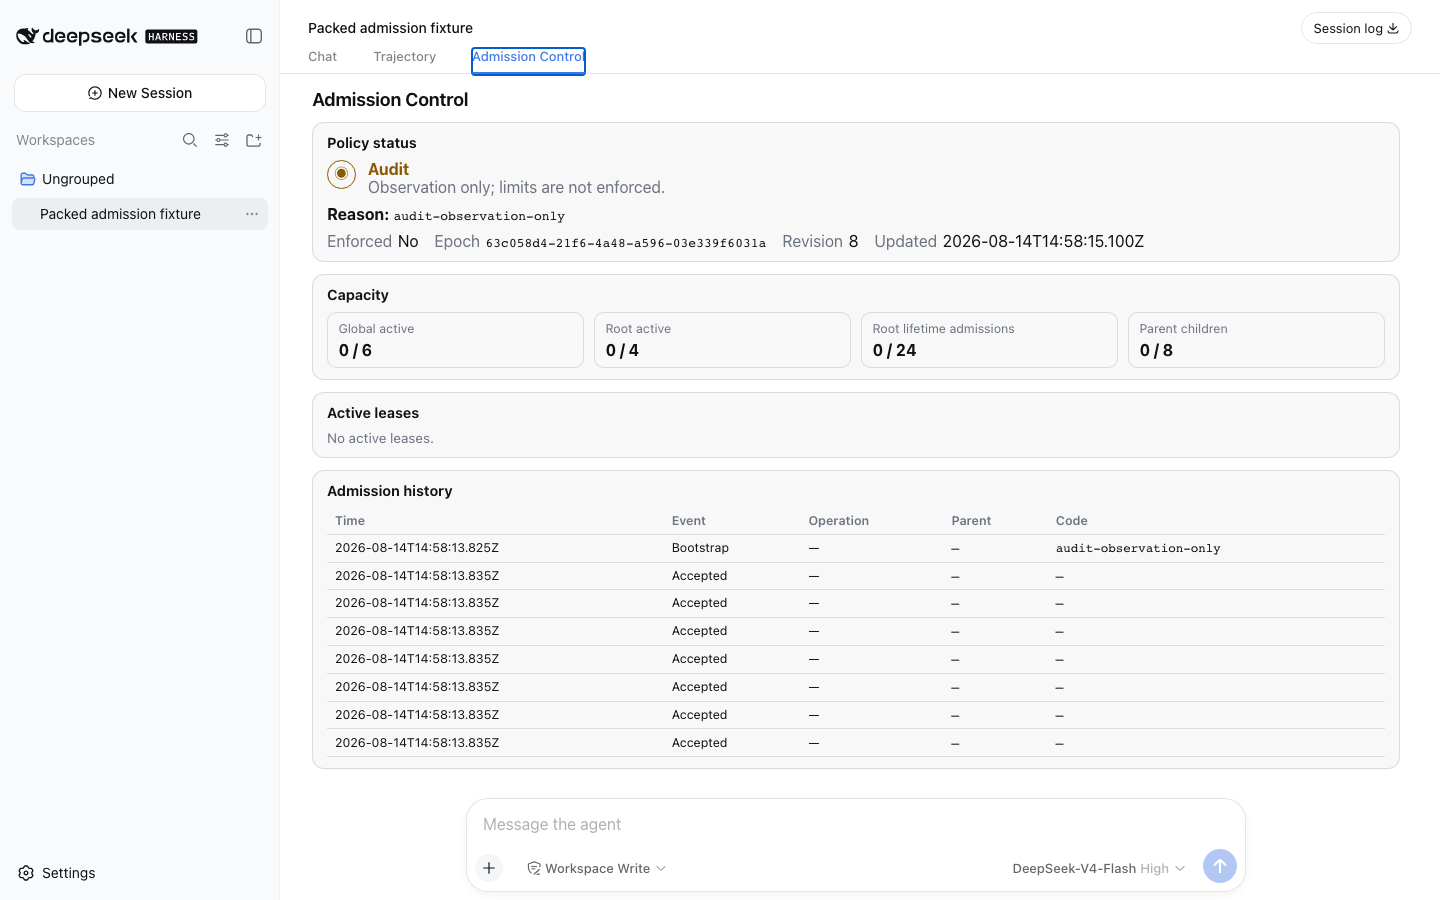
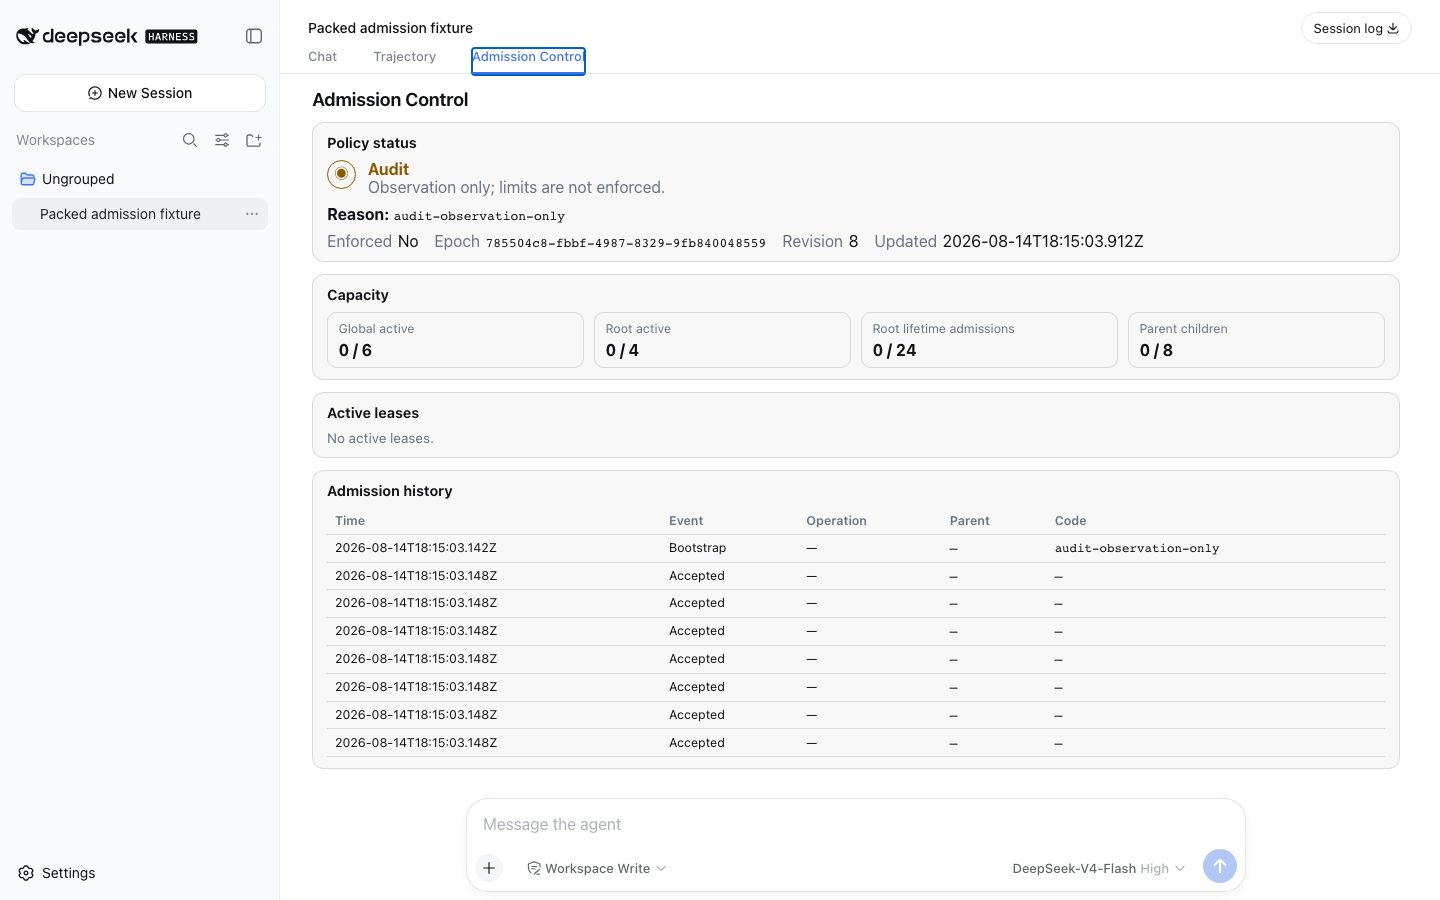
fix: close cold-resume admission leak

diff --git a/tests/upstream/admission-policy.spec.ts b/tests/upstream/admission-policy.spec.ts
@@ -890,4 +890,36 @@ describe('continuable admission ownership', () => {
       releases: ['startup-failed'],
     })
   })
+
+  it.skipIf(SEAM_SHAPE === 'reference')(
+    'releases cold-resume admission when cancellation wins immediately after acquisition',
+    async () => {
+      const { ctx, parent } = await continuationRuntime(
+        new MockAdapter([textResponse('initial')]),
+      )
+      registerContinuableProvider(ctx, 'continuable', async () => ({}))
+      const started = await ctx.subagents.startContinuable(
+        continuableSpec(parent),
+      )
+      await waitNoActivation(ctx, started.childId)
+
+      const controller = new AbortController()
+      const events: string[] = []
+      ctx.subagents.registerAdmissionPolicy(
+        new CancelAfterAcquirePolicy(controller, events),
+      )
+
+      await expect(ctx.subagents.followup(
+        parent,
+        started.childId,
+        [{ type: 'text', text: 'cancel cold resume' }],
+        {
+          source: { kind: 'user' },
+          signal: controller.signal,
+        },
+      )).rejects.toMatchObject({ name: 'AbortError' })
+      expect(events).toEqual(['acquire', 'release:startup-failed'])
+      expect(ctx.agents.get(started.childId)).toBeUndefined()
+    },
+  )
 })

diff --git a/tests/docs.spec.ts b/tests/docs.spec.ts
@@ -271,7 +271,7 @@ describe('release-candidate documentation', () => {
     expect(note).not.toContain('perRootAdmittedTotal')
   })
 
-  it('packages the Discussion #131 draft without claiming publication or adoption', () => {
+  it('packages the published Discussion #131 reply source without claiming adoption', () => {
     const draft = text('docs/discussion-131-draft.md')
     expect(draft).toContain('independent')
     expect(draft).toContain('experimental')
@@ -308,7 +308,7 @@ describe('release-candidate documentation', () => {
     for (const file of ['README.md', 'README.zh-CN.md', 'docs/upstream-seam.md', 'docs/compatibility.md']) {
       const content = text(file)
[3 lines of base64/hex data omitted]
       expect(content).toContain('dsh-turn-budget')
     }
   })

diff --git a/docs/upstream-seam.md b/docs/upstream-seam.md
@@ -25,7 +25,7 @@ few lines of plumbing or that users should maintain this fork shape forever.
 | Source commit | `47f943859bef60e4160492346772ded9b24f765a` | `47f943859bef60e4160492346772ded9b24f765a` |
 | Source package | `@deepseek-ai/dsh-subagent@0.1.0-rc.5` | `@deepseek-ai/dsh-subagent@0.1.0-rc.5` |
 | Patch file | `patches/dsh-subagent-admission-seam-slim.patch` | `patches/dsh-subagent-admission-seam.patch` |
[2 lines of base64/hex data omitted]
 | Protocol | `1` | `1` |
 | Status | Canonical baseline (promoted) | Recoverable reference artifact |
 | Verification | `corepack pnpm tsx scripts/verify-seam-patch.mts --patch slim` | `corepack pnpm tsx scripts/verify-seam-patch.mts --patch reference` |
@@ -108,11 +108,11 @@ Measured comparison:
 | Metric | Canonical baseline (slim) | Recoverable reference | Slim limit |
 | --- | ---: | ---: | ---: |
 | Official files | 3 | 3 | <= 3 |
-| Insertions | 202 | 380 | — |
+| Insertions | 207 | 380 | — |
 | Deletions | 23 | 38 | — |
-| Changed lines | 225 | 418 | <= 313 |
-| `continuation.ts` changed lines | 101 | 187 | <= 140 |
-| Serialized patch lines | 448 | 607 | <= 455 |
+| Changed lines | 230 | 418 | <= 313 |
+| `continuation.ts` changed lines | 106 | 187 | <= 140 |
+| Serialized patch lines | 455 | 607 | <= 455 |
 
 The protocol concepts are small; lifecycle-correct ownership across fresh start,
 cold resume, partial failure, descendant teardown, cancellation, and quiescent
@@ -174,14 +174,16 @@ corepack pnpm tsx scripts/verify-seam-patch.mts --patch slim
 corepack pnpm tsx scripts/verify-seam-patch.mts --patch reference
 ```
 
-On 2026-08-14, the patched run passed 11 test files and 266 tests on macOS arm64
+On 2026-08-14, the patched run passed 11 test files and 270 tests on macOS arm64
 with Node `v25.9.0` and pnpm `11.19.0`. The local environment had no `corepack`
 binary, so the observed run invoked the same script through `pnpm tsx`; the
 recorded command above is the cross-environment canonical form. Platform-package,
 workspace-cycle, and ignored-build-script bin warnings were present during the
 official lockfile install; they did not fail compilation or tests.
 
-The fixture covers registration and tombstoning, unsupported protocol,
+The 270-test result comprises 249 stock official subagent tests and 21 tests in
+the injected reusable admission fixture. The fixture covers registration and
+tombstoning, unsupported protocol,
 provider-before-policy ordering, one-shot publication/binding, result-before-
 dispose, provider and binding rollback, failed-cleanup lease retention,
 spawn/fork and foreground/background equivalence, fresh continuable creation,

diff --git a/docs/upstream-agent-note.md b/docs/upstream-agent-note.md
@@ -107,14 +107,14 @@ Admission and cancellation are strictly coordinated to prevent capacity leaks:
 The seam design is verified against exact official source commit `47f943859bef60e4160492346772ded9b24f765a` (`@deepseek-ai/dsh-subagent@0.1.0-rc.5`).
 
 The test suite includes:
-- 100% pass rate on all 269 official subagent tests.
-- A reusable upstream admission fixture testing 18 distinct behaviors: single registration, tombstoning, fail-closed unregistration, pre-provider acquisition, publication binding, post-quiescence release, startup rollback, cancellation propagation, resident follow-up reuse, cold resume admission, and descendant-first teardown ordering.
+- 249 stock official subagent tests plus 21 injected reusable admission-fixture tests, all passing (270 tests across 11 files).
+- The reusable fixture covers single registration, tombstoning, fail-closed unregistration, pre-provider acquisition, publication binding, post-quiescence release, startup rollback, one-shot and cold-resume cancellation propagation, resident follow-up reuse, cold resume admission, and descendant-first teardown ordering.
 
 ## Consequences
 
 - **Separation of concerns**: DeepSeek Harness core remains lightweight, clean, and unopinionated while providing a robust lifecycle hook for advanced resource management plugins.
 - **Cross-caller consistency**: All subagent creation paths—whether from tools, background plugins, or direct SDK calls—share one coherent admission authority.
-- **Non-trivial implementation**: Although the public protocol is minimal, integrating lifecycle-correct ownership requires precision across one-shot execution, continuable activation, and asynchronous cleanup. In the qualified candidate, the patch touches 3 official files (`types.ts`, `index.ts`, `continuation.ts`) with 225 total changed lines (101 in `continuation.ts`).
+- **Non-trivial implementation**: Although the public protocol is minimal, integrating lifecycle-correct ownership requires precision across one-shot execution, continuable activation, and asynchronous cleanup. In the qualified candidate, the patch touches 3 official files (`types.ts`, `index.ts`, `continuation.ts`) with 230 total changed lines (106 in `continuation.ts`).
 - **Productization gate**: Achieving a documented official extension point enables **zero-patch Strict** enforcement for community plugins without requiring local source patching.
 
 ## Deferred work

diff --git a/docs/superpowers/specs/2026-08-14-dsh-subagent-upstream-seam-slim-design.md b/docs/superpowers/specs/2026-08-14-dsh-subagent-upstream-seam-slim-design.md
@@ -1,8 +1,33 @@
 # DSH Subagent Upstream Admission Seam Slim Design
 
-Status: approved design; implementation not started
+Status: implemented and requalified; the public reply was authorized separately
 
 Date: 2026-08-14
+
+## Post-qualification slimming decision
+
+The implemented candidate was re-reviewed after the public design question was
+posted. Three directions were compared:
+
+1. **Preserve the lifecycle-correct candidate and slim the official-facing
+   packet** — selected. The patch remains a non-trivial integration vehicle;
+   the maintainers are asked to judge only registration plus acquire, bind, and
+   release ownership edges.
+2. **Delete rollback, cancellation, tombstone, or failure aggregation to reduce
+   source lines** — rejected. These are enforcement semantics, not product
+   policy, and removing them would create fail-open or false-release paths.
+3. **Replace the concrete subagent seam with a generic runtime resource-permit
+   service** — deferred. No second independent consumer currently justifies a
+   broader official abstraction.
+
+The review found one real semantic gap: cold-resume cancellation could win
+after `acquire()` but before ownership transferred to `materialize()`, leaving
+the permit unreleased. A RED fixture reproduced the missing
+`release('startup-failed')`; the minimal ownership-transfer fix then passed 270
+tests across 11 files on the exact official target. The requalified candidate
+is 230 changed lines across three official files, including 106 in
+`continuation.ts`, and 455 serialized patch lines. Further line shaving is not
+an acceptance goal unless it preserves every lifecycle gate below.
 
 ## 1. Purpose
 
@@ -452,6 +477,12 @@ gate. It excludes GUI, hiring, product marketing, external default quotas, and
 the full policy implementation.
 
 ### 11.2 Discussion #131 draft
+
+Publication update: the final evidence-tightened source is tracked in
+`docs/discussion-131-draft.md` and was separately authorized and published at
+https://github.com/deepseek-ai/deepseek-harness/discussions/131#discussioncomment-18020293.
+This section preserves the original pre-publication design gate; it does not
+authorize follow-up comments.
 
 The eventual comment is evidence-first, approximately 150--180 English words,
 and asks one question:

diff --git a/CHANGELOG.md b/CHANGELOG.md
@@ -8,11 +8,12 @@ candidates do not imply npm availability or upstream adoption.
 
 ### Changed
 
[2 lines of base64/hex data omitted]
 - Adopted the cancellable `acquire(request, signal)` protocol signature across one-shot and continuable subagent materialization paths.
 - Unified release reason vocabulary with explicit `startup-failed` on rejected provider startup or rollback and quiescent release after completed teardown.
 - Expanded conformance testing with cancellation before provider startup and cancellation after admission acquisition.
-- Qualified the slim seam patch to 225 changed lines (202 insertions, 23 deletions) across 3 official files (101 changed lines in `continuation.ts`, 448 serialized patch lines), reducing official footprint while preserving full lifecycle semantics.
+- Closed the cold-resume cancellation window after policy acquisition so an untransferred permit releases with `startup-failed` before materialization begins.
+- Qualified the slim seam patch to 230 changed lines (207 insertions, 23 deletions) across 3 official files (106 changed lines in `continuation.ts`, 455 serialized patch lines), reducing official footprint while preserving full lifecycle semantics.
[1 lines of base64/hex data omitted]
 - Preserved external boundaries: this promotion updates local canonical identity and test defaults only; it makes no claim of upstream DeepSeek adoption, maintainer endorsement, or npm package publication.
 - Reframed the project from a generic subagent limiter to a shared lifecycle

diff --git a/docs/compatibility.md b/docs/compatibility.md
@@ -14,7 +14,7 @@ The blocking machine-readable source is
 | npm `@deepseek-ai/dsh` latest/next | `0.1.0-rc.6` / `0.1.0-rc.6` |
 | npm `@deepseek-ai/dsh-subagent` latest/next | `0.0.1-rc.1` / `0.1.0-rc.6` |
 | Protocol | `1` |
[3 lines of base64/hex data omitted]
 | Plugin candidate | `dsh-subagent-admission@0.1.0-rc.1` |
 
@@ -42,8 +42,8 @@ silently becomes Audit.
 - Stock Audit is installable observability only. It cannot prevent a start and
   is not a #131 painkiller.
 - Patched Strict is a verified reference implementation and conformance system
-  for one exact source identity. The canonical slim seam patch is 225 changed lines
-  across three official files (448 serialized patch lines, including 101 changed
+  for one exact source identity. The canonical slim seam patch is 230 changed lines
+  across three official files (455 serialized patch lines, including 106 changed
   lines in `continuation.ts`), with the 607-line reference patch retained as a
   recoverable baseline artifact.
 - A documented official capability that supports **zero-patch Strict** is the

diff --git a/README.md b/README.md
@@ -134,8 +134,8 @@ capacity. Strict is intentionally limited to the exact source target and
 verified seam patches documented in [the upstream seam proposal](docs/upstream-seam.md):
 
 - **Canonical baseline patch (slim)** (`patches/dsh-subagent-admission-seam-slim.patch`):
[1 lines of base64/hex data omitted]
-  (promoted canonical baseline, 225 changed lines, 448 serialized lines)
[1 lines of base64/hex data omitted]
+  (promoted canonical baseline, 230 changed lines, 455 serialized lines)
 - **Recoverable reference patch** (`patches/dsh-subagent-admission-seam.patch`):
[1 lines of base64/hex data omitted]
   (retained recoverable reference artifact, 418 changed lines, 607 serialized lines)

diff --git a/packages/dsh-subagent-admission/README.md b/packages/dsh-subagent-admission/README.md
@@ -134,8 +134,8 @@ capacity. Strict is intentionally limited to the exact source target and
 verified seam patches documented in [the upstream seam proposal](docs/upstream-seam.md):
 
 - **Canonical baseline patch (slim)** (`patches/dsh-subagent-admission-seam-slim.patch`):
[1 lines of base64/hex data omitted]
-  (promoted canonical baseline, 225 changed lines, 448 serialized lines)
[1 lines of base64/hex data omitted]
+  (promoted canonical baseline, 230 changed lines, 455 serialized lines)
 - **Recoverable reference patch** (`patches/dsh-subagent-admission-seam.patch`):
[1 lines of base64/hex data omitted]
   (retained recoverable reference artifact, 418 changed lines, 607 serialized lines)

diff --git a/README.zh-CN.md b/README.zh-CN.md
@@ -115,8 +115,8 @@ bundle 默认是 Audit。这个命令不会让原版 DSH 获得容量 enforcemen
 target 和已验证的 seam patches：
 
 - **Canonical 基准补丁（slim）** (`patches/dsh-subagent-admission-seam-slim.patch`)：
[1 lines of base64/hex data omitted]
-  （已晋升为 canonical 基准，225 行变更，448 行序列化补丁）
[1 lines of base64/hex data omitted]
+  （已晋升为 canonical 基准，230 行变更，455 行序列化补丁）
 - **可恢复的 Reference 补丁** (`patches/dsh-subagent-admission-seam.patch`)：
[1 lines of base64/hex data omitted]
   （保留的可恢复 reference 工件，418 行变更，607 行序列化补丁）

diff --git a/packages/dsh-subagent-admission/README.zh-CN.md b/packages/dsh-subagent-admission/README.zh-CN.md
@@ -115,8 +115,8 @@ bundle 默认是 Audit。这个命令不会让原版 DSH 获得容量 enforcemen
 target 和已验证的 seam patches：
 
 - **Canonical 基准补丁（slim）** (`patches/dsh-subagent-admission-seam-slim.patch`)：
[1 lines of base64/hex data omitted]
-  （已晋升为 canonical 基准，225 行变更，448 行序列化补丁）
[1 lines of base64/hex data omitted]
+  （已晋升为 canonical 基准，230 行变更，455 行序列化补丁）
 - **可恢复的 Reference 补丁** (`patches/dsh-subagent-admission-seam.patch`)：
[1 lines of base64/hex data omitted]
   （保留的可恢复 reference 工件，418 行变更，607 行序列化补丁）

diff --git a/compatibility/ecosystem-audit.md b/compatibility/ecosystem-audit.md
@@ -229,8 +229,8 @@ Proceed, but extremely narrowly:
 
 - The reference patch is not a tiny hook: 607 patch lines touch three official
   files, with 187 changed lines in `continuation.ts`. The qualified slim
-  candidate refines this to 225 changed lines (101 in `continuation.ts`) and
-  448 serialized patch lines across the same three files. Both serve as
+  candidate refines this to 230 changed lines (106 in `continuation.ts`) and
+  455 serialized patch lines across the same three files. Both serve as
   lifecycle-integration and conformance vehicles.
 - The long-term product gate is zero-patch Strict through a documented DSH
   extension point. A permanent patched-upstream matrix is not a sustainable
